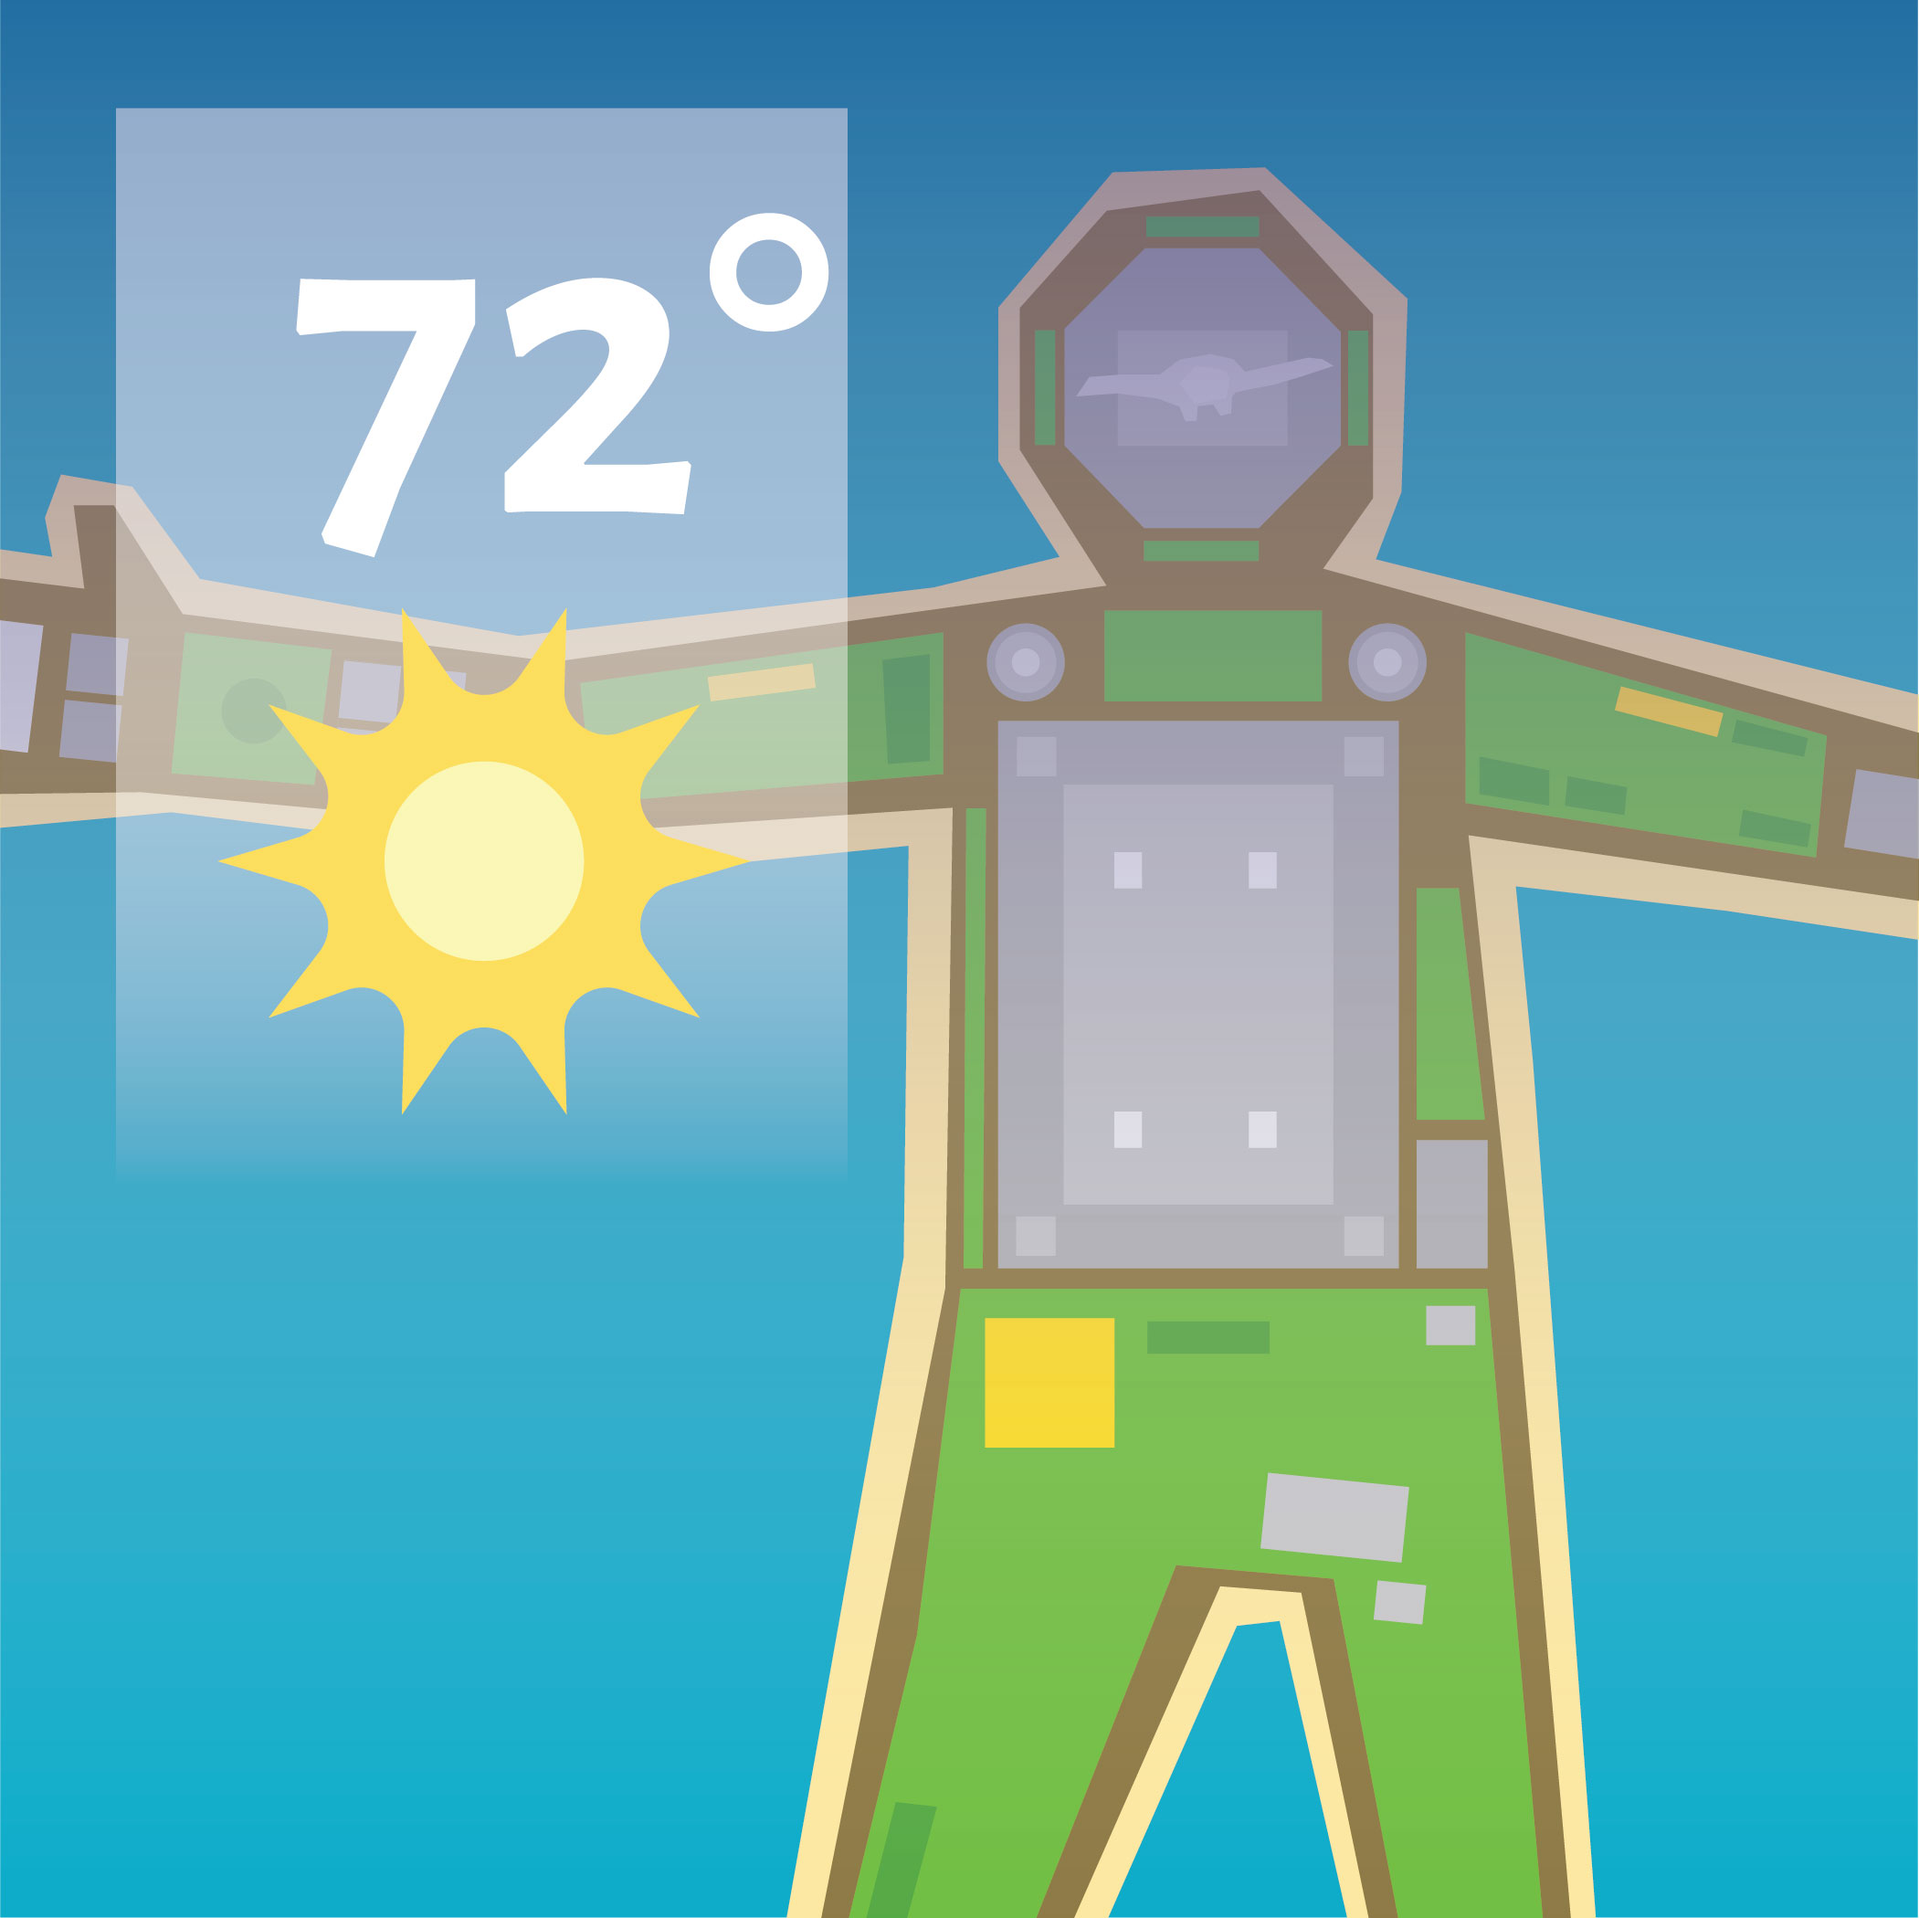
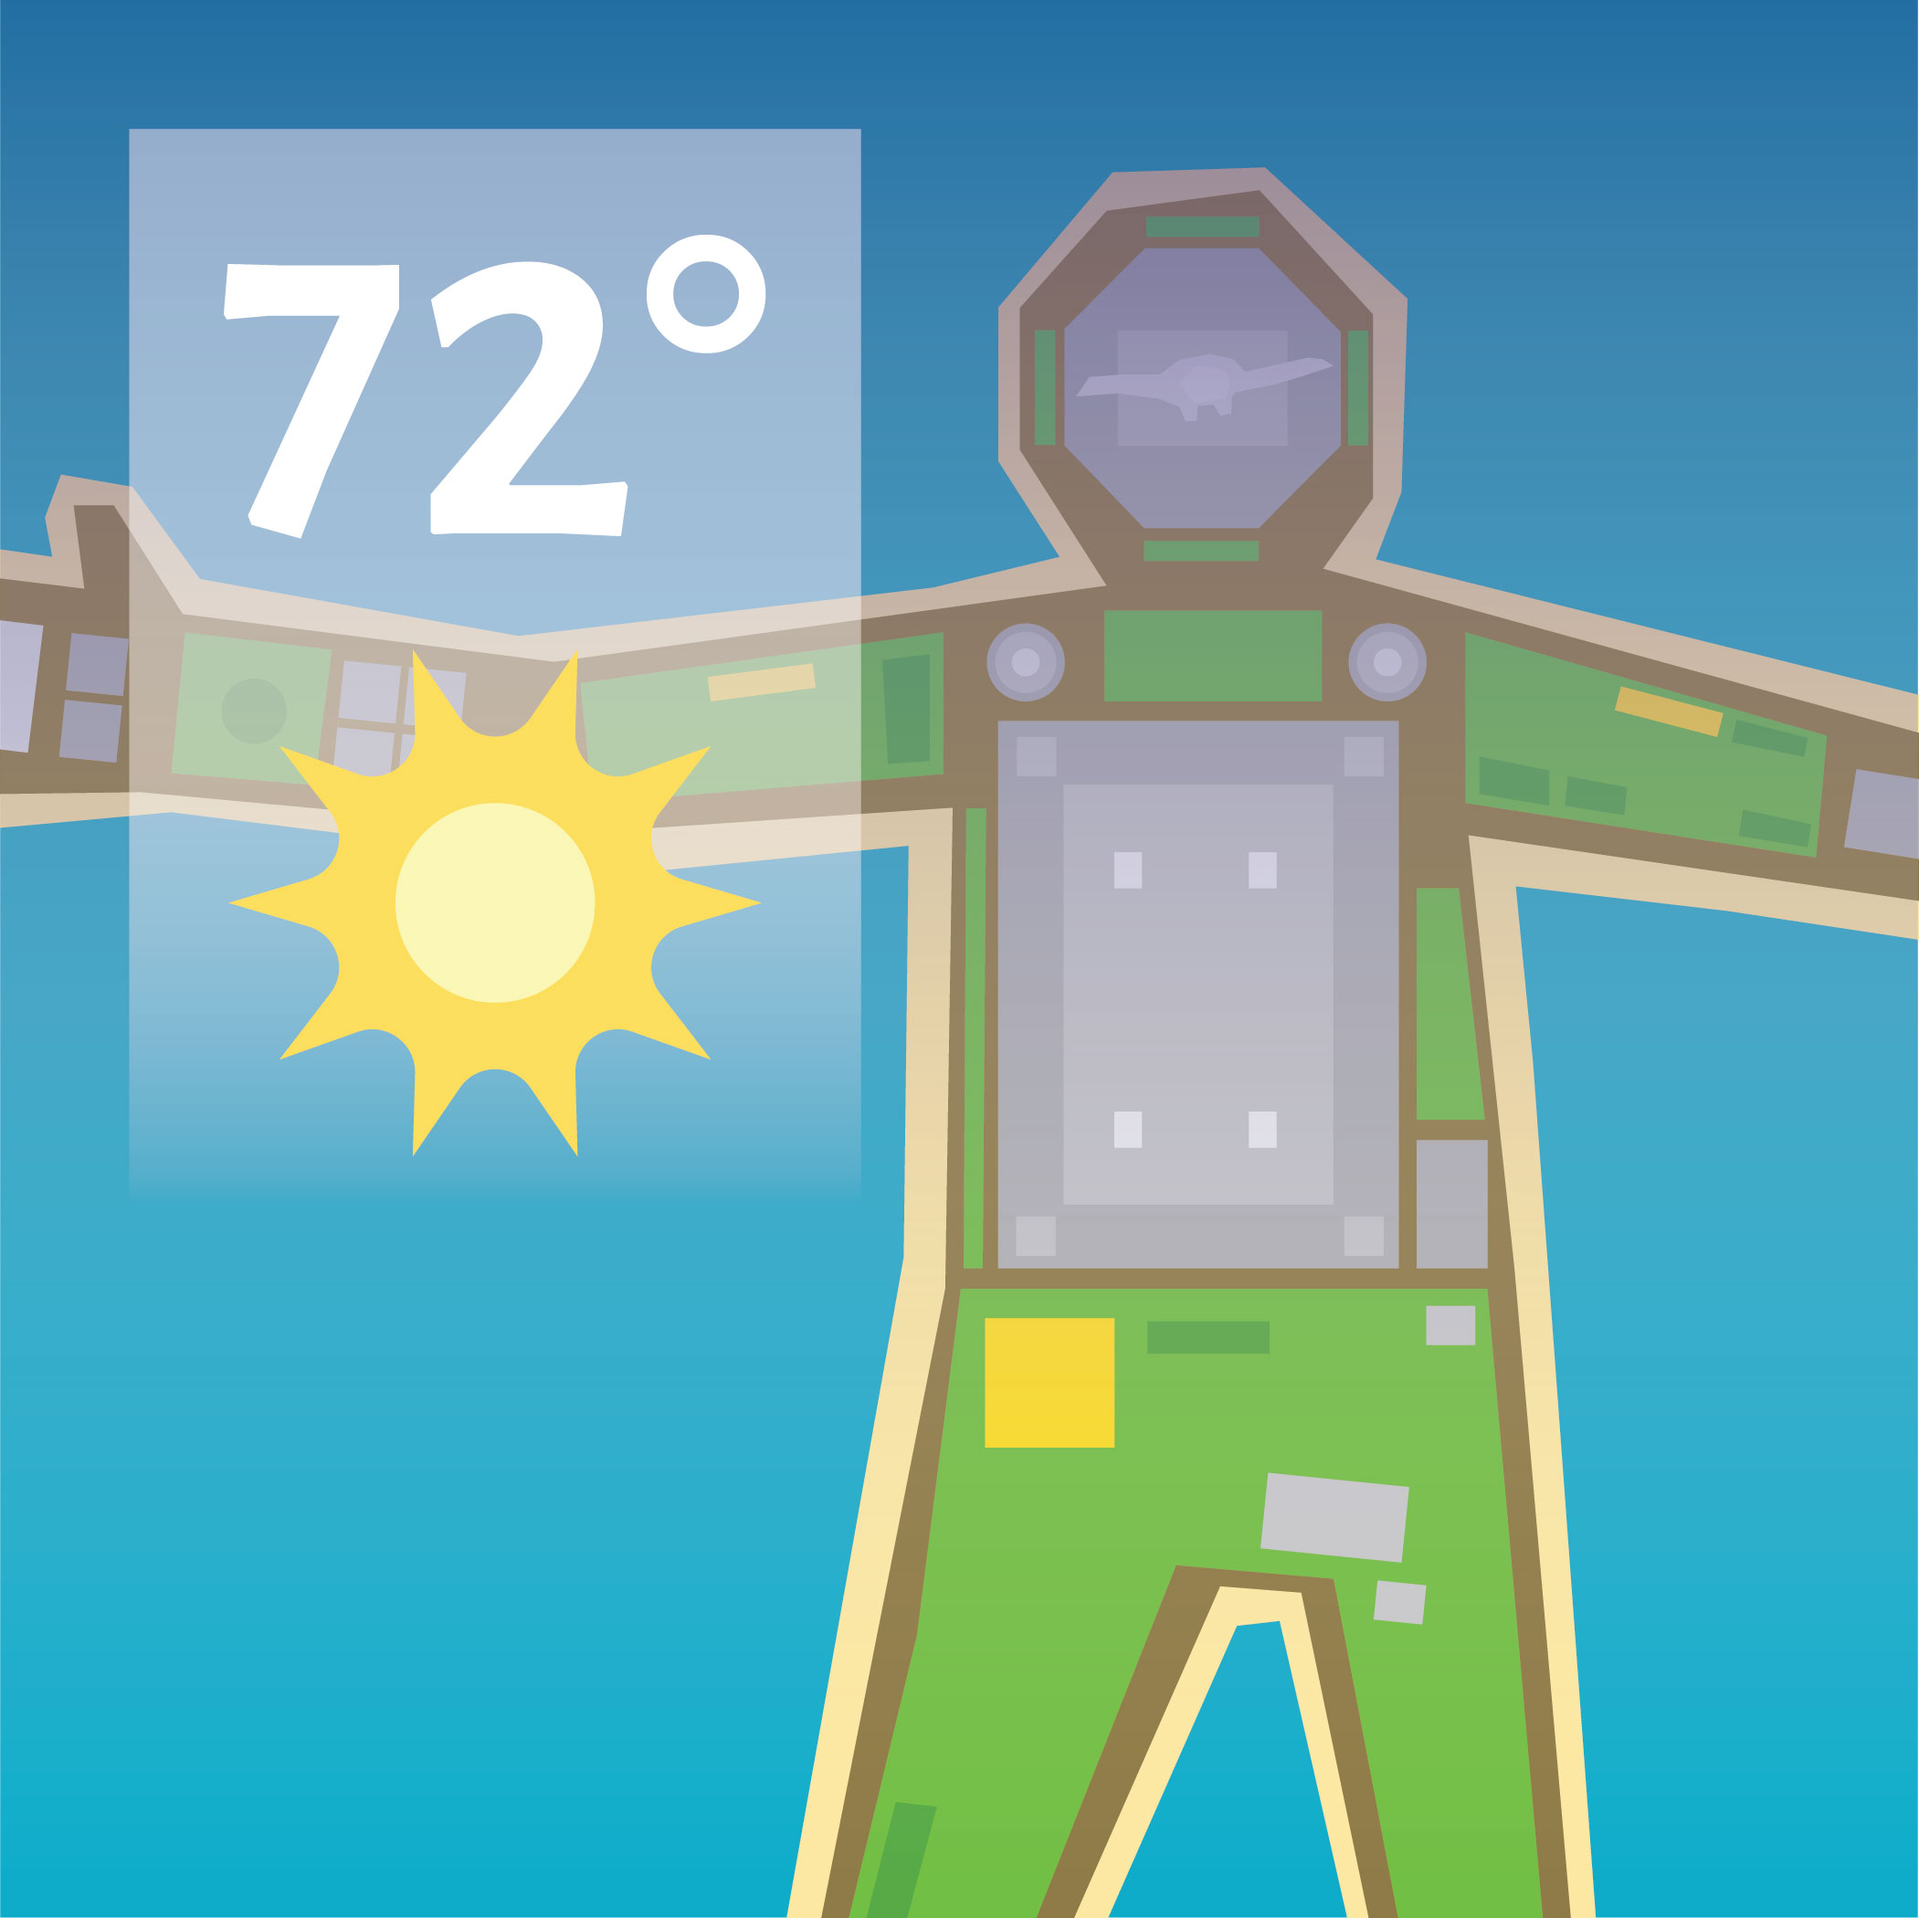
weather

Changed region(s): [[0.0619, 0.031, 0.4641, 0.619]]

diff --git a/environment/weather.html b/environment/weather.html
@@ -26,21 +26,48 @@
             <article id="weather_topbar">
                 <figure id="palace_weather">
                     <img src="./imgs/env_weather_A- Palace Island.jpg">
+                    <figcaption>Palace Island</figcaption>
                 </figure>
                 <figure id="mushroom_weather">
-                    <img src="./imgs/env_weather_A- Palace Island.jpg">
+                    <img src="./imgs/env_weather_B- Mushroom Island.jpg">
+                    <figcaption>Mushroom Island</figcaption>
                 </figure>
                 <figure id="sand_weather">
-                    <img src="./imgs/env_weather_A- Palace Island.jpg">
+                    <img src="./imgs/env_weather_C- The Sand Bars.jpg">
+                    <figcaption>The Sand Bars</figcaption>
                 </figure>
                 <figure id="farm_weather">
                     <img src="./imgs/env_weather_D- The Farm.jpg">
+                    <figcaption>The Farm</figcaption>
                 </figure>
                 <figure id="trash_weather">
                     <img src="./imgs/env_weather_E- Trash Island.jpg">
+                    <figcaption>Trash Island</figcaption>
                 </figure>
                 <figure id="grey_weather">
-                    <img src="./imgs/env_weather_A- Palace Island.jpg">
+                    <img src="./imgs/env_weather_F- Grey Island.jpg">
+                    <figcaption>Grey Island</figcaption>
+                </figure>
+            </article>
+            <h2>10-Day Forecast</h2>
+            <article id="weather_week">
+                <figure id="palace_week">
+                    <img src="./imgs/palace_weather week.jpg">
+                </figure>
+                <figure id="mushroom_week">
+                    <img src="./imgs/mushroom_weather week.jpg">
+                </figure>
+                <figure id="sand_week">
+                    <img src="./imgs/sand_weather week.jpg">
+                </figure>
+                <figure id="farm_week">
+                    <img src="./imgs/farm_weather week.jpg">
+                </figure>
+                <figure id="trash_week">
+                    <img src="./imgs/trash_weather week.jpg">
+                </figure>
+                <figure id="grey_week">
+                    <img src="./imgs/grey_weather week.jpg">
                 </figure>
             </article>
         </section>
@@ -65,6 +92,7 @@
                 <li><h3>Services</h3></li>
                 <li><a href="">Map</a></li>
                 <li><a href="./weather.html">Weather</a></li>
+                <li><a href="./events.html">Events</a></li>
             </ul>
             <ul>
                 <li><h3><a href="./about.html">About Us</a></h3></li>
@@ -81,11 +109,105 @@
     const trashWeather = document.getElementById("trash_weather");
     const greyWeather = document.getElementById("grey_weather");
 
-    palaceWeather.addEventListener("click", showWeather);
+    const palaceWeek = document.getElementById("palace_week");
+    const mushroomWeek = document.getElementById("mushroom_week");
+    const sandWeek = document.getElementById("sand_week");
+    const farmWeek = document.getElementById("farm_week");
+    const trashWeek = document.getElementById("trash_week");
+    const greyWeek = document.getElementById("grey_week");
 
-    function showWeather(){
+    palaceWeather.addEventListener("click", function(){
+        palaceWeek.style.display="block";
+        mushroomWeek.style.display="none";
+        sandWeek.style.display="none";
+        farmWeek.style.display="none";
+        trashWeek.style.display="none";
+        greyWeek.style.display="none";
         
-    }
+        palaceWeather.style.background="#ffdd5d";
+        mushroomWeather.style.background="white";
+        sandWeather.style.background="white";
+        farmWeather.style.background="white";
+        trashWeather.style.background="white";
+        greyWeather.style.background="white";
+    });
+
+    mushroomWeather.addEventListener("click", function(){
+        mushroomWeek.style.display="block";
+        palaceWeek.style.display="none";
+        sandWeek.style.display="none";
+        farmWeek.style.display="none";
+        trashWeek.style.display="none";
+        greyWeek.style.display="none";
+        
+        mushroomWeather.style.background="#ffdd5d";
+        palaceWeather.style.background="white";
+        sandWeather.style.background="white";
+        farmWeather.style.background="white";
+        trashWeather.style.background="white";
+        greyWeather.style.background="white";
+    })
+    sandWeather.addEventListener("click", function(){
+        sandWeek.style.display="block";
+        palaceWeek.style.display="none";
+        mushroomWeek.style.display="none";
+        farmWeek.style.display="none";
+        trashWeek.style.display="none";
+        greyWeek.style.display="none";
+
+        sandWeather.style.background="#ffdd5d";
+        palaceWeather.style.background="white";
+        mushroomWeather.style.background="white";
+        farmWeather.style.background="white";
+        trashWeather.style.background="white";
+        greyWeather.style.background="white";
+    })
+    farmWeather.addEventListener("click", function(){
+        farmWeek.style.display="block";
+        palaceWeek.style.display="none";
+        mushroomWeek.style.display="none";
+        sandWeek.style.display="none";
+        trashWeek.style.display="none";
+        greyWeek.style.display="none";
+        
+        farmWeather.style.background="#ffdd5d";
+        palaceWeather.style.background="white";
+        mushroomWeather.style.background="white";
+        sandWeather.style.background="white";
+        trashWeather.style.background="white";
+        greyWeather.style.background="white";
+    })
+    trashWeather.addEventListener("click", function(){
+        trashWeek.style.display="block";
+        palaceWeek.style.display="none";
+        mushroomWeek.style.display="none";
+        sandWeek.style.display="none";
+        farmWeek.style.display="none";
+        greyWeek.style.display="none";
+        
+        trashWeather.style.background="#ffdd5d";
+        palaceWeather.style.background="white";
+        mushroomWeather.style.background="white";
+        sandWeather.style.background="white";
+        farmWeather.style.background="white";
+        greyWeather.style.background="white";
+    })
+    greyWeather.addEventListener("click", function(){
+        greyWeek.style.display="block";
+        palaceWeek.style.display="none";
+        mushroomWeek.style.display="none";
+        sandWeek.style.display="none";
+        farmWeek.style.display="none";
+        trashWeek.style.display="none";
+        
+        greyWeather.style.background="#ffdd5d";
+        palaceWeather.style.background="white";
+        mushroomWeather.style.background="white";
+        sandWeather.style.background="white";
+        farmWeather.style.background="white";
+        trashWeather.style.background="white";
+    })
+
 </script>
 
 </html>

diff --git a/environment/style.css b/environment/style.css
@@ -65,10 +65,23 @@ figure{
     padding: 0;
 }
 img{
-    max-width: 80%;
+    max-width: 100%;
 }
 #weather_topbar{
     display: flex;
+}
+#weather_topbar figure{
+    margin: 0 10px;
+}
+#palace_weather{
+    background: #ffdd5d;
+}
+#weather_week figure{
+    margin: 10px;
+    display: none;
+}
+#weather_week :first-child{
+    display: block;
 }
 
 .filter{
@@ -100,13 +113,14 @@ footer{
 footer h2{
     width: 1000px;
     margin: 0 auto;
-    padding-top: 20px;
+    padding: 20px 20px 0px 20px;
 }
 #foot-list{
     display: grid;
     grid: 1fr / 0.4fr 0.4fr 0.4fr 1fr;
     width: 1000px;
     margin: 0 auto;
+    padding: 0px 20px;
 }
 footer ul{
     padding: 0;
